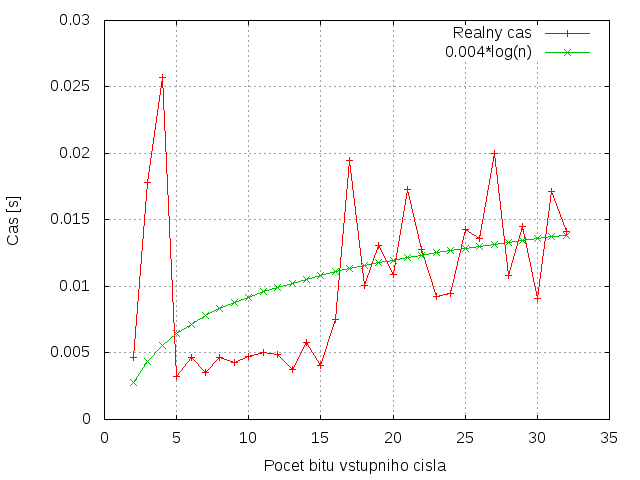
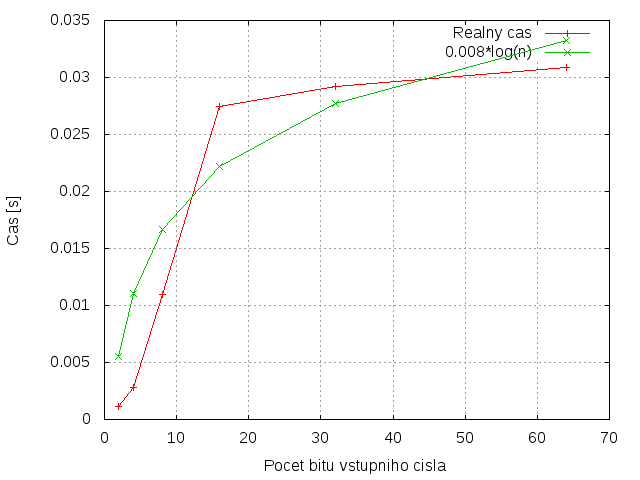
todays work

diff --git a/projekt3/docs/doc.tex b/projekt3/docs/doc.tex
@@ -22,8 +22,8 @@
 
 \section{Úvod}
 \label{sec:intro}
-Algoritmus \emph{Carry Look Ahead Parallel Binary Adder} je určen pro paralelní sčitání dvou binárních čísel.
-Tento dokument popisuje jeho implementaci v~jazyce C++ za použití knihovny \emph{opemMPI} a následné experimenty
+Algoritmus \emph{Carry Look Ahead Parallel Binary Adder} je určen pro paralelní sčítání dvou binárních čísel.
+Tento dokument popisuje jeho implementaci v~jazyce C++ za použití knihovny \emph{openMPI} a následné experimenty
 provedené s~touto implementací.
 Jako první bude algoritmus stručně popsán (sekce \ref{sec:analysis}) a bude analyzována jeho teoretická složitost.
 Dále budou popsány některé části implementace (sekce \ref{sec:analysis}), následované popisem experimentů
@@ -34,8 +34,9 @@ Na závěr bude uveden sekvenční diagram popisují komunikaci procesorů při 
 \label{sec:analysis}
 Algoritmus očekává na vstupu dvě binární čísla se stejným počtem bitů a pracuje s~polem
 procesorů, které má $2^m$ procesorů, kde $\lceil m=\log_{2}{n} \rceil$ a $n$ je počet bitů operandu.
-Počet procesorů rovný některé z~mocnic čísla $2$ je nutný především kvůli použití algoritmu \emph{scan}.
-Každý procesor má následující registry $X$ a $Y$, v~nichž má uložený přidělené bity ze vstupních čísel,
+Počet procesorů rovný některé z~mocnic čísla $2$ je nutný především kvůli použití algoritmu \emph{scan}
+pro výpočet sumy prefixů.
+Každý procesor má registry $X$ a $Y$, v~nichž má uložený přidělené bity ze vstupních čísel,
 dále registr $D$, $C$ a $Z$ potřebné pro výpočet, který probíhá následujícím způsobem.
 \begin{enumerate}
     \item $I$-tému procesoru je přiřazen $i$-tý bit z~obou ze sčítaných čísel.
@@ -54,7 +55,7 @@ dále registr $D$, $C$ a $Z$ potřebné pro výpočet, který probíhá následu
         \begin{array}{ll}
              s~& \mbox{pokud } D_1=s \\
              g~& \mbox{pokud } D_1=g \\
-             D_2 & \mbox{pokud} D_1=p
+             D_2 & \mbox{pokud } D_1=p
         \end{array}
         \right.
         $
@@ -64,22 +65,22 @@ dále registr $D$, $C$ a $Z$ potřebné pro výpočet, který probíhá následu
     \item Každý procesor vypočte hodnotu svého registru $Z=C\oplus X \oplus Y$, kde $\oplus$
     značí logickou funkci \emph{XOR}.
 \end{enumerate}
-Nyní přistupme k~vlastní analýze časové složitosti vzhledem k~počtu bitů sčitaných čísel.
-Všechny kroky popsaného postupu lze provést v~konstantním čase s~výjímkou kroku $3$, který
+Nyní přistupme k~vlastní analýze časové složitosti vzhledem k~počtu bitů sčítaných čísel.
+Všechny kroky popsaného postupu lze provést v~konstantním čase s~výjimkou kroku $3$, který
 bude mít složitost $\log{2^{\lceil \log_{2}{n} \rceil}}$ (kde $n$ je počet bitů sčítaného čísla), což
 je v~$O(\log{n})$.
 Algoritmus má tedy časovou složitost $4+O(\log{n})=O(\log{n})$.
-Pro počet procesorů nutných pro výpočet platí $2^{\lceil \log_{2}{n} \rceil}=O(n)$
+Pro počet procesorů nutných pro výpočet je $2^{\lceil \log_{2}{n} \rceil}=O(n)$
 a cena výpočtu je tedy $c(n)=O(\log{n})*O(\log{n})$, což není optimální.
 
 \section{Implementace}
 \label{sec:impl}
 Algoritmus byl implementován s~použitím jednoho procesoru navíc oproti popisu v~sekci $\ref{sec:analysis}$.
-Tento procesor plní roli \emph{mastera}, načítá vstupní posloupnost a posílá ostatím procesorům příslušné bity
-ze vstupních čísel tak, že procesoru na pozici $1$ je přidelen nejméně významný bit apod.
+Tento procesor plní roli \emph{mastera}, načítá vstupní posloupnost a posílá ostatním procesorům příslušné bity
+ze vstupních čísel tak, že procesoru na pozici $1$ je přidělen nejméně významný bit apod.
 
 Pokud jsou na vstupu čísla s~počtem bitu, který není roven žádné mocnině dvou, jsou doplněny zleva nulami,
-tak aby počet bitů byl roven nejbližší mocnině dvou vyšší než byl původní počet bitů.
+tak aby počet bitů byl roven nejbližší mocnině dvou vyšší, než byl původní počet bitů.
 
 \section{Experimenty}
 \label{sec:exprmts}
@@ -88,25 +89,27 @@ trvalo sečtení dvou čísel o~zadaném počtu bitů.
 Čas byl měřen pomocí metody \emph{MPI::Wtime} z~knihovny \emph{openMPI}
 a byl měřen výpočet bez načtení vstupních hodnoty a vypsání výstupu,
 aby tyto vstupně výstupní operace nezkreslovaly dobu potřebou pro samotný výpočet.
-Měření byla provedena na stroji \emph{merlin.fit.vutbr.cz}.
-Výsledky měření jsou průměrem z~osmi na sobě nezávislých měření.
+Měření byla provedena na na počítači s~procesorem Intel Core 2 Duo (2.13 GHz) a 4 GiB paměti.
+Výsledky měření jsou průměrem z~šestnásti na sobě nezávislých měření.
 
 Výsledky lze vidět na grafu \ref{fig:res}.
 Na ose $x$ je počet bitů sčítaných čísel a na ose $y$ doba v~sekundách,
 po kterou výpočet trval.
 Červené body udávají reálnou dobu, po kterou výpočet trval, zelené
-pak průběh funkce $0.004*log(n)$, která byla empiricky odvozena,
+pak průběh funkce $0.008*log(n)$, která byla empiricky odvozena
 a která má ilustrovat složitost $O(\log{n})$, jež by měl mít výpočet teoreticky.
-Je zřejmé, že pro malá čísla (velikost do pěti bitů) nastal
-výrázný nárust časové náročnosti výpočtu, což lze přisuzovat fungování systému
-a jeho správě procesů.
-Na větších hodnotách se však již logaritmická časová složitost výpočtu začala potvrzovat.
-Dobu výpočtu pro čísla s~větším počtem bitů než $31$ nebylo možné na testovacím stroji změřit kvůli systémovým
-omezení testovacího počítače, jež neumožnila vytvořit potřebný počet procesů.
+Jelikož počet procesorů nutný k~výpočtu je vždy $2^x$, kde $x$ je nějaké přirozené číslo,
+byla měřena doba výpočtu pro součet čísel, která mají $2^x$ bitů.
+Čísla s~jiným počtem bitů jsou doplněna nulami tak, aby měla požadavonou délku, tudíž
+by se u~nich časová náročnost výpočtu nelišila.
+Byly měřeny hodnoty pro vstupy o~délce maximálně $64$ bitů, což je výpočetní a systémový limit testovacího
+stroje.
+Z~grafu je patrné, že naměřené hodnoty časové náročnosti výpočtu odpovídají logaritmické
+časové složitosti odvozené formálně.
 
 \begin{figure}[bt]
 \begin{center}
-    \includegraphics[scale=0.6]{perf.png}
+    \includegraphics[scale=0.5]{perf.png}
     \caption{Doba výpočtu v~sekundách v~závislosti na počtu bitů sčítaných čísel.}
     \label{fig:res}
 \end{center}
@@ -117,10 +120,10 @@ omezení testovacího počítače, jež neumožnila vytvořit potřebný počet 
 Sekvenční diagram na Obrázku \ref{fig:seq} popisuje komunikační protokol procesorů
 při výpočtu.
 CPU $i$ je procesor provádějící řazení (slave procesor) s~identifikační
-číselm $i$ (slave procesory jsou indexovány od jedné).
+číslem $i$ (slave procesory jsou indexovány od 1).
 Číslo $n$ udává počet bitů sčítanců po případném rozšířením nulami, a tedy
 i počet slave procesorů.
-CPU master je procesor provádějící čtení vstupu.
+CPU master je procesor provádějící čtení vstupu a rozesílání příslušných bitů slave procesorům.
 Tento procesor má identifikační číslo $0$.
 
 \begin{figure}[bt]
@@ -132,7 +135,7 @@ Tento procesor má identifikační číslo $0$.
 \end{figure}
 
 \section{Závěr}
-V~tomtu dokumentu byl popsán algoritmus \emph{Carry Look Ahead Parallel Binary Adder}.
+V~tomto dokumentu byl popsán algoritmus \emph{Carry Look Ahead Parallel Binary Adder}.
 Následně byla provedena analýza jeho časové složitosti a ceny.
 Algoritmus byl implementován a byly provedeny experimenty,
 které potvrdily logaritmickou časovou složitost výpočtu odvozenou formálně,

diff --git a/projekt3/mm.cpp b/projekt3/mm.cpp
@@ -268,7 +268,6 @@ int main(int argc, char *argv[])
     
         double endTime = MPI::Wtime();
 
-        /*
         if (procId == realSize && D == G)
         { // check overflow on original maximal size bit
             std::cout  <<  "overflow"  <<  std::endl;
@@ -278,11 +277,12 @@ int main(int argc, char *argv[])
         {
             std::cout  <<  procId  <<  ":"  <<  Z  <<   std::endl;
         }
-        */
+        /*
         if (procId == numProcs-1)
         {
             std::cout  <<  realSize  <<  " "  << endTime - startTime  <<  std::endl;
         }
+        */
     }
 
     

diff --git a/projekt3/myTest.py b/projekt3/myTest.py
@@ -14,7 +14,7 @@ def getBin(numStr):
 
 
 i = int(sys.argv[1])
-
+print i
 f = open("numbers",'w')
 x = random.randint(pow(2,i),pow(2,i+1)-1)
 y = random.randint(pow(2,i),pow(2,i+1)-1)
